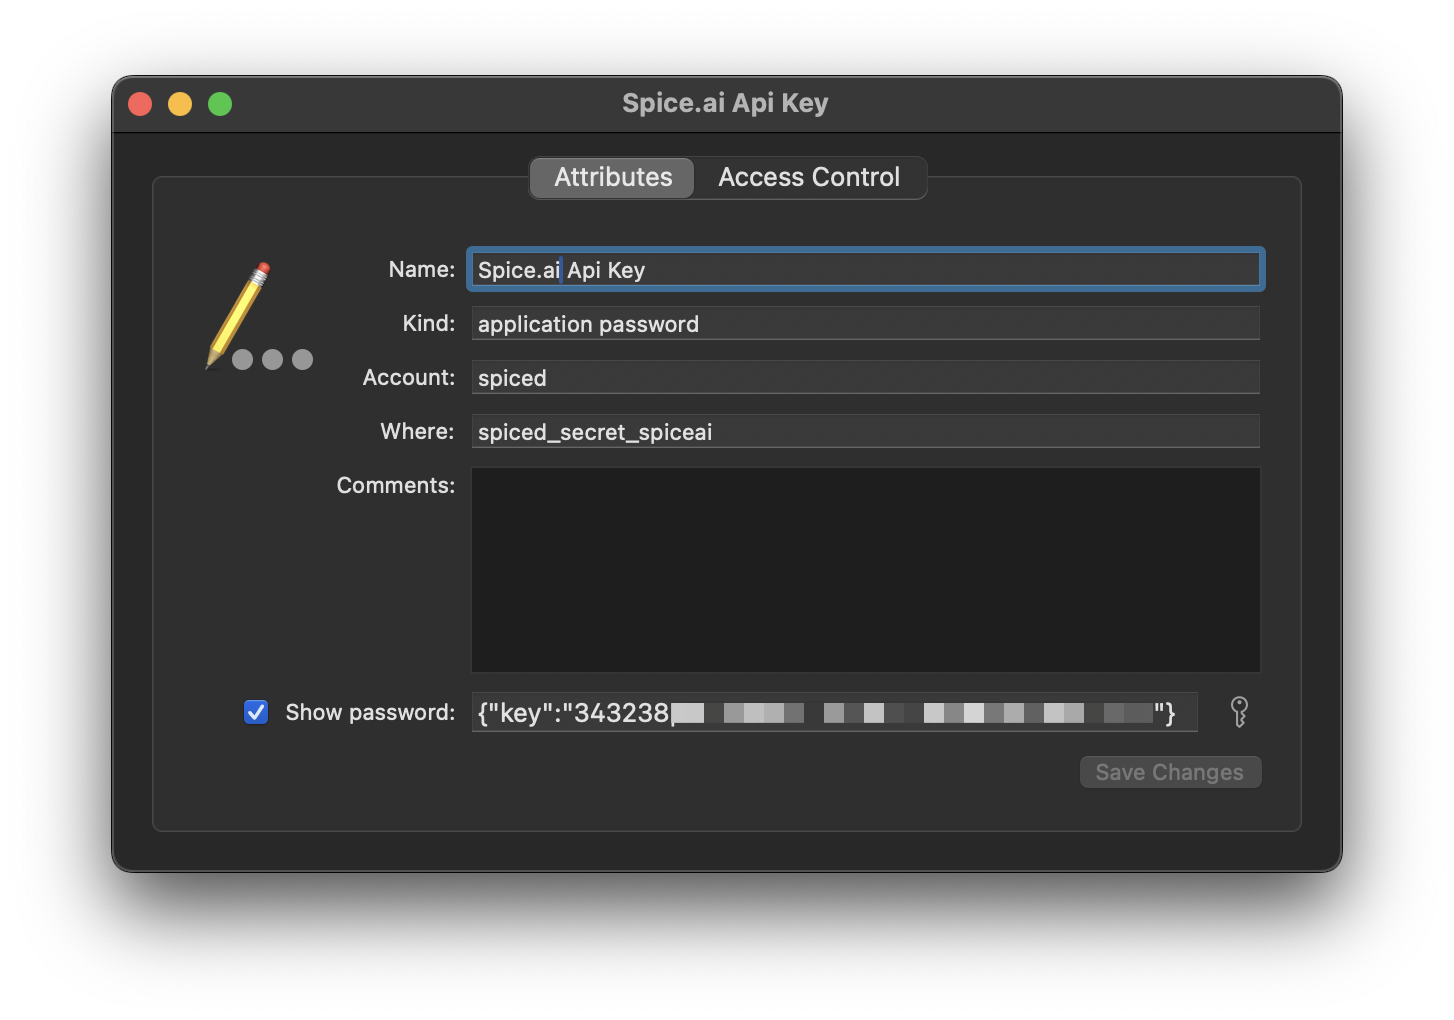
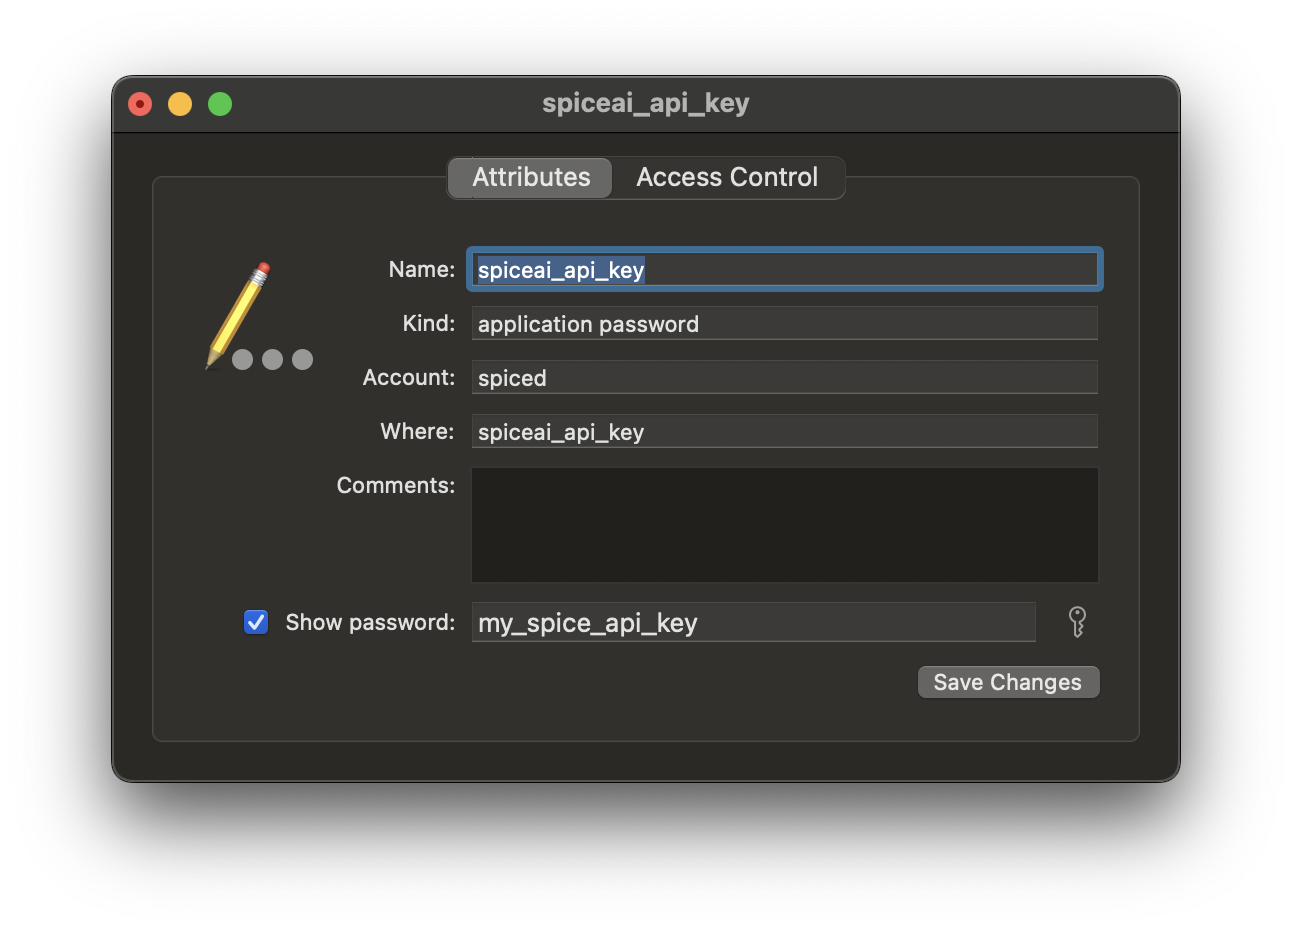
Update main secrets documentation

diff --git a/spiceaidocs/docs/components/secret-stores/index.md b/spiceaidocs/docs/components/secret-stores/index.md
@@ -7,15 +7,117 @@ pagination_prev: null
 pagination_next: null
 ---
 
-A Secret Store is a location where `secret` objects are stored, used to store sensitive data, like passwords, tokens, secret keys.
+A Secret Store is a location where `secrets` are stored and can be used to store sensitive data, like passwords, tokens, and secret keys.
 
-Spice supports multiple types of secret stores: `file`, `env`, `kubernetes`, `keyring` and `aws_secrets_manager`. The type of secret store is specified in the `store` field of the `secrets` section in the Spicepod manifest.
+Spice supports several secret stores: `env`, `kubernetes`, `keyring` and `aws_secrets_manager`. The `env` secret store is loaded by default.
 
-## Example
+### Default
+
+The `env` secret store is loaded by default. It reads secrets from environment variables and any `.env.local` or `.env` files in the project directory.
 
 ```yaml
 secrets:
-  store: env
+  - from: env
+    name: env
+```
+
+## Define secret stores
+
+Define secret stores in the `secrets` section of the configuration file. The `from` field specifies the secret store type, and the `name` field specifies the name of the secret store to be referenced in the parameters. Some secret store types support adding a `:` to the end of the field, as an additional selector. For example, `from: kubernetes:my_secret` would select the `my_secret` secret in the Kubernetes secret store, and look for keys within that Kubernetes secret only.
+
+Additional parameters can also be specified in the `params` field. The parameters are specific to the secret store type.
+
+Example:
+```yaml
+secrets:
+  - from: kubernetes:my_secret
+    name: k8s
+  - from: env
+    name: env
+```
+
+## Reference secrets in parameters
+
+Reference secrets defined in a secret store by using the syntax `${<secret_store_name>:<key_name>}`. For example, to reference a secret stored as an environment variable named `MY_SECRET` in the `env` secret store, use `${env:MY_SECRET}`.
+
+Example:
+```yaml
+datasets:
+  - from: postgres:my_table
+    name: my_table
+    params:
+      pg_host: localhost
+      pg_port: 5432
+      pg_user: ${env:PG_USER}
+      pg_pass: ${env:FOO_PASSWORD} # The environment variable doesn't need to be named the same as the parameter.
+```
+
+This syntax also works within a larger string, like a connection string:
+
+```yaml
+datasets:
+  - from: mysql:my_table
+    name: my_table
+    params:
+      mysql_connection_string: mysql://${env:USER}:${env:PASSWORD}@localhost:3306/mysql_db
+```
+
+The `<secret_store_name>` value in `${<secret_store_name>:<key_name>}` is the `name` value defined in the secret store configuration. This can be renamed to any value.
+
+Example:
+```yaml
+secrets:
+  - from: env
+    name: my_env
+```
+
+```yaml
+datasets:
+  - from: postgres:my_table
+    name: my_table
+    params:
+      pg_host: localhost
+      pg_port: 5432
+      pg_user: ${my_env:PG_USER}
+      pg_pass: ${my_env:PG_PASS}
+```
+
+## Load secrets from multiple secret stores
+
+Spice allows configuring multiple secret stores in the `secrets` section. The secret stores are loaded in the order they are defined in the configuration file. If a secret is defined in multiple secret stores, the secret store defined last will take precedence.
+
+To load a secret from any of the configured secret stores in precedence order, use the `${secrets:<key_name>}` syntax.
+
+Example:
+```yaml
+secrets:
+  - from: env
+    name: env
+  - from: keyring
+    name: keyring
+```
+
+```yaml
+datasets:
+  - from: postgres:my_table
+    name: my_table
+    params:
+      pg_host: localhost
+      pg_port: 5432
+      pg_user: ${secrets:pg_user}
+      pg_pass: ${secrets:pg_pass}
+```
+
+This example would look for `pg_user` and `pg_pass` in the `keyring` secret store first, and then in the `env` secret store. The `<key_name>` value in `${secrets:<key_name>}` is automatically uppercased for the `env` secret store.
+
+In this example, to allow environment variables to override the `keyring` secret store, change the order of the secret stores in the configuration file:
+
+```yaml
+secrets:
+  - from: keyring
+    name: keyring
+  - from: env
+    name: env
 ```
 
 ## Secret Stores

diff --git a/spiceaidocs/docs/components/secret-stores/env/index.md b/spiceaidocs/docs/components/secret-stores/env/index.md
@@ -6,20 +6,73 @@ description: 'Environment Variables Secret Store Documentation'
 pagination_prev: null
 ---
 
-The `env` store type enables Spice to read secrets from environment variables. Environment variables should be formatted `SPICE_SECRET_<secret-name>_<secret-value-key>`.
-
-All variables with the same prefix `SPICE_SECRET_<secret-name>` are combined into a single secret. This allows grouping of related secret values under a single secret name.
-
-## Example
+The `env` store type enables Spice to read secrets from environment variables and any `.env.local` or `.env` files in the project directory. This is the default secret store and is loaded automatically as:
 
 ```yaml
 secrets:
-  store: env
+  - from: env
+    name: env
 ```
 
-Setting `spiceai` secret with spice.ai API key in `key` secret value:
+Reference secrets directly in parameters using the syntax `${env:MY_ENV_VAR}`. This will load the value of the environment variable `MY_ENV_VAR` into the parameter.
 
-```bash
-SPICE_SECRET_SPICEAI_KEY="343533|**************" \
-  spice run
+Example:
+
+```yaml
+datasets:
+  - from: postgres:my_table
+    name: my_table
+    params:
+      pg_host: localhost
+      pg_port: 5432
+      pg_user: ${env:MY_PG_USER}
+      pg_pass: ${env:MY_PG_PASSWORD}
+```
+
+This syntax also works within a larger string, like a connection string:
+
+```yaml
+datasets:
+  - from: mysql:my_table
+    name: my_table
+    params:
+      connection_string: mysql://${env:MY_USER}:${env:MY_PASSWORD}@localhost:3306/my_db
+```
+
+When used with the `${secrets:<my_key>}` syntax, the `<my_key>` variable is UPPERCASED to follow the convention of environment variables.
+
+Example:
+  
+```yaml
+datasets:
+  - from: postgres:my_table
+    name: my_table
+    params:
+      pg_host: localhost
+      pg_port: 5432
+      pg_user: ${secrets:my_pg_user} # same as ${env:MY_PG_USER}
+      pg_pass: ${secrets:my_pg_password} # same as ${env:MY_PG_PASSWORD}
+```
+
+## .env Files
+
+The `env` secret store reads secrets from any `.env.local` or `.env` files in the project directory. The `.env.local` file takes precedence over the `.env` file. This allows defining template secrets in the `.env` file which can be checked into source control and overriding them with local secrets in the `.env.local` file.
+
+Example `.env` file:
+
+```env
+MY_PG_USER=postgres
+MY_PG_PASSWORD=postgres
+```
+
+### Additional Parameters
+
+To load environment variables from a specific `.env` file, use the `file_path` parameter. This will not load environment variables from the default `.env` or `.env.local` files.
+
+```yaml
+secrets:
+  - from: env
+    name: env
+    params:
+      file_path: /custom/path/to/.env
 ```

diff --git a/spiceaidocs/docs/components/secret-stores/aws-secrets-manager/index.md b/spiceaidocs/docs/components/secret-stores/aws-secrets-manager/index.md
@@ -5,36 +5,40 @@ sidebar_position: 3
 description: 'AWS Secrets Manager Secret Store Documentation'
 ---
 
-The `aws_secrets_manager` store enables Spice to read secrets from [AWS Secrets Manager](https://aws.amazon.com/secrets-manager/).
+The `aws_secrets_manager` store enables Spice to read secrets from [AWS Secrets Manager](https://aws.amazon.com/secrets-manager/) by specifying the secret’s name with a selector.
 
 ```yaml
-version: v1beta1
-kind: Spicepod
-name: taxi_trips
 secrets:
-  store: aws_secrets_manager
+  from: aws_secrets_manager:my_secret_name
+  name: aws
 ```
-The store reads secrets named as `spice_secret_<secret-name>`, for example `dremio` login and password must be defined as `spice_secret_dremio` secret in [AWS Secrets Manager](https://console.aws.amazon.com/secretsmanager/listsecrets)
 
-<img src="/img/secrets-aws-secrets-manager-dremio-1.png" alt="" width="800" />
+The store reads keys from the secret named in the selector. In the above example `my_secret_name` must be defined in [AWS Secrets Manager](https://console.aws.amazon.com/secretsmanager/listsecrets), and any keys referenced using `${aws:my_key}` will look for a key `my_key` within `my_secret_name`.
 
-<img src="/img/secrets-aws-secrets-manager-dremio-2.png" alt="" width="800" />
+<img src="/img/secrets-aws-secrets-manager-1.png" alt="" width="800" />
 
-A complete spicepod definition with a dataset that uses a secret from AWS Secrets Manager created above.
+<img src="/img/secrets-aws-secrets-manager-2.png" alt="" width="800" />
+
+## Example
+
+A complete spicepod definition with a dataset that uses a secret from AWS Secrets Manager.
 
 ```yaml
 version: v1beta1
 kind: Spicepod
 name: taxi_trips
 secrets:
-  store: aws_secrets_manager
+  - from: aws_secrets_manager:dremio
+    name: dremio
 
 datasets:
 - from: dremio:datasets.taxi_trips
   name: taxi_trips
   description: dremio taxi trips
   params:
-    endpoint: grpc://20.163.171.81:32010
+    dremio_endpoint: grpc://20.163.171.81:32010
+    dremio_username: ${dremio:username}
+    dremio_password: ${dremio:password}
 ```
 
 ## AWS Secrets Manager Access

diff --git a/spiceaidocs/docs/components/secret-stores/kubernetes/index.md b/spiceaidocs/docs/components/secret-stores/kubernetes/index.md
@@ -5,16 +5,39 @@ sidebar_position: 3
 description: 'Kubernetes Secret Store Documentation'
 ---
 
-The `kubernetes` store enables Spice to read Kubernetes secrets.
+The `kubernetes` store allows Spice to read Kubernetes secrets by specifying the secret’s name with a selector.
 
 ## Example
 
 ```yaml
 secrets:
-  store: kubernetes
+  - from: kubernetes:my_secret
+    name: k8s
 ```
 
-Note: This method requires the Kubernetes service account, which is running the `spiced` pod, to have extended roles for secrets API access. Make sure to configure this service account with the necessary permissions to read secrets from the Kubernetes API.
+And the secret can be referenced in parameters:
+
+```yaml
+datasets:
+  - from: spiceai:eth.recent_blocks
+    name: blocks
+    params:
+      spiceai_api_key: ${k8s:spiceai_api_key} # ${secrets:spiceai_api_key} can also be used to fallback to other secret stores
+```
+
+Load secrets from multiple Kubernetes secrets by defining multiple Kubernetes secret stores with the appropriate selectors for the secrets to read:
+
+```yaml
+secrets:
+  - from: kubernetes:my_secret
+    name: k8s
+  - from: kubernetes:my_other_secret
+    name: k8s_other
+```
+
+## Kubernetes Secret Store Configuration
+
+Note: This method requires the Kubernetes service account, which is running the `spiced` pod, to have extended roles for secrets API access. Configure this service account with the necessary permissions to read secrets from the Kubernetes API.
 
 Example of Kubernetes role configuration for a custom service account:
 

diff --git a/spiceaidocs/docs/components/secret-stores/keyring/index.md b/spiceaidocs/docs/components/secret-stores/keyring/index.md
@@ -12,23 +12,30 @@ The `keyring` store enables Spice to access secrets from the secure/credential s
 - macOS: The keychain.
 - Windows: The Credential Manager.
 
-The Keyring Store will read entries for names formatted as `spice_secret_<secret-name>` and where the entry account or user is set to `spiced`.
-
-Note: For compatibility with Spice secret objects, secret values are required to be stored as JSON strings, as the keyring store only supports string values.
+The Keyring Store will read entries where the entry account or user is set to `spiced`.
 
 ## Example
 
-For setting `spiceai` api key secret using macOS keychain, create new keychain entry, with following JSON string value
+For setting the `spiceai` api key secret using macOS keychain, create a new keychain entry, with value as the api key.
 
-```json
-"{ key: "<your spice.ai app api key>" }"
-```
+`"<your spice.ai app api key>"`
 
 <img src="/img/secrets-keychain-example.png" alt="" width="800" />
 
-Then set `store` field of the `secrets` section in the Spicepod manifest:
+The `keyring` store is defined in the Spicepod manifest:
 
 ```yaml
 secrets:
-  store: keyring
+  - from: keyring
+    name: keyring
+```
+
+And the secret can be referenced in the parameters:
+
+```yaml
+datasets:
+  - from: spiceai:eth.recent_blocks
+    name: blocks
+    params:
+      spiceai_api_key: ${keyring:spiceai_api_key} # ${secrets:spiceai_api_key} can also be used
 ```
